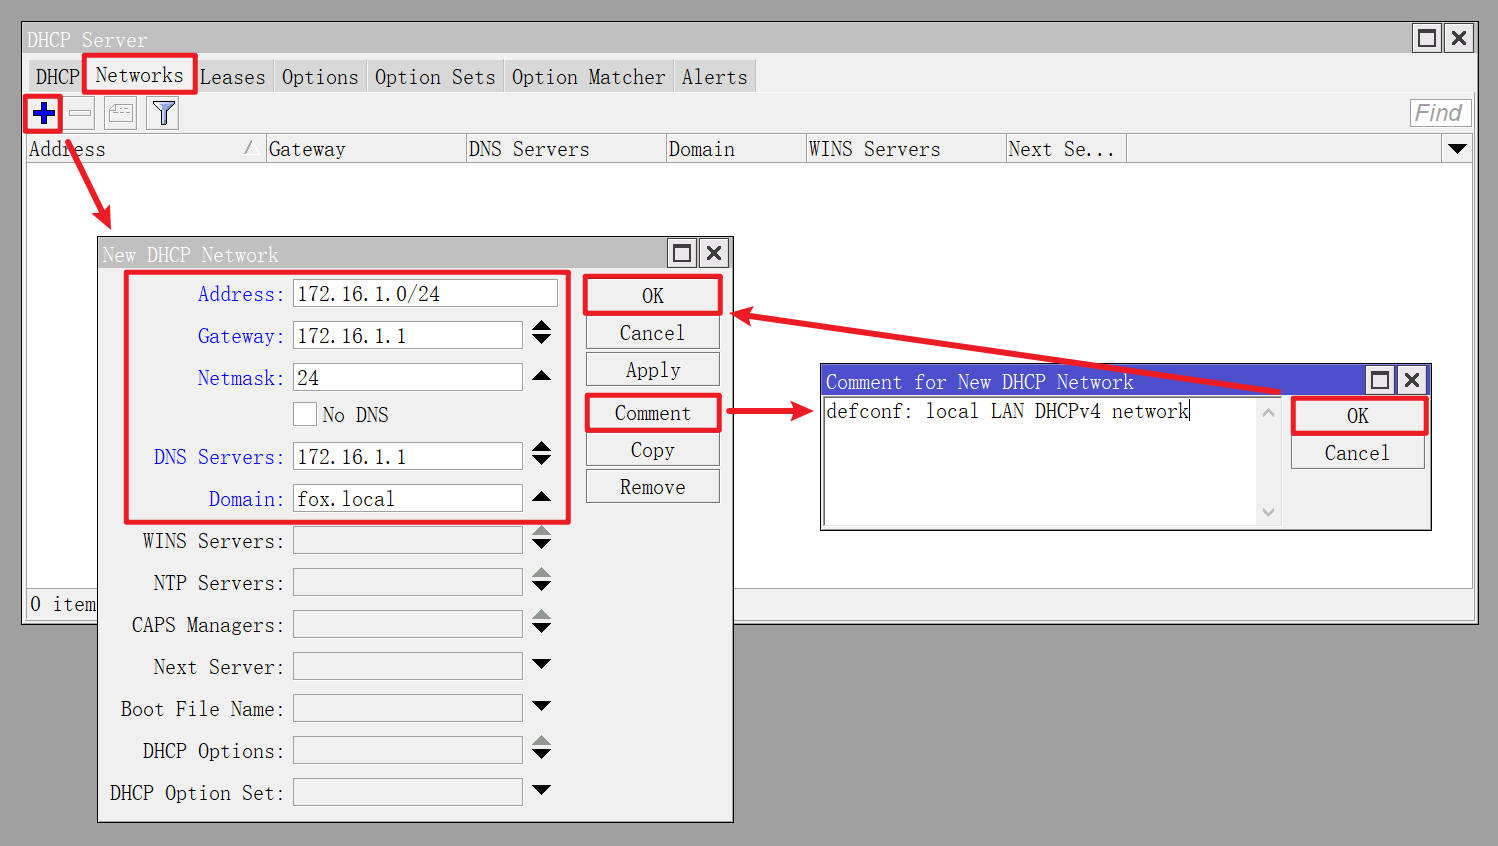
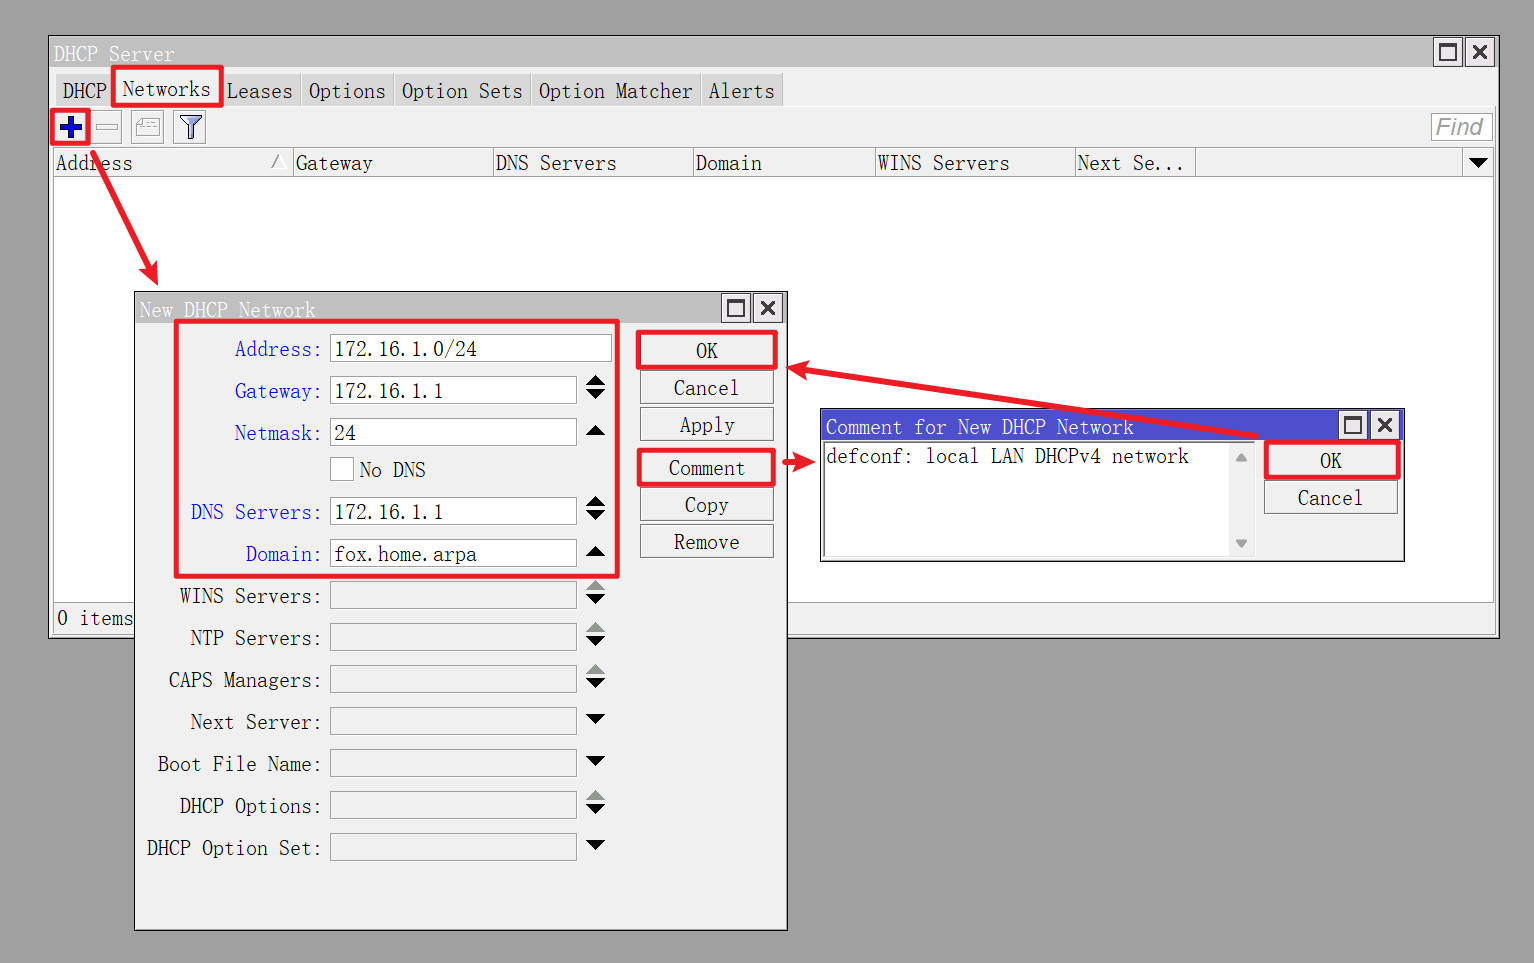
更新本地域名后缀

Changed region(s): [[0.0, 0.0, 1.0, 0.9835], [0.7984, 0.5532, 0.8291, 0.5839]]

diff --git a/04.设置DHCPv4.md b/04.设置DHCPv4.md
@@ -55,7 +55,7 @@ DHCPv4 服务器创建完成后如图所示。
 |Gateway|`172.16.1.1`|
 |Netmask|`24`|
 |DNS Server|`172.16.1.1`|
-|Domain|`fox.local` (可选)|
+|Domain|`fox.home.arpa` (可选)|
 |Comment|`defconf: local LAN DHCPv4 network`|
 
 ![创建DHCP服务器网络](img/p04/add_dhcp_server_network.jpeg)
